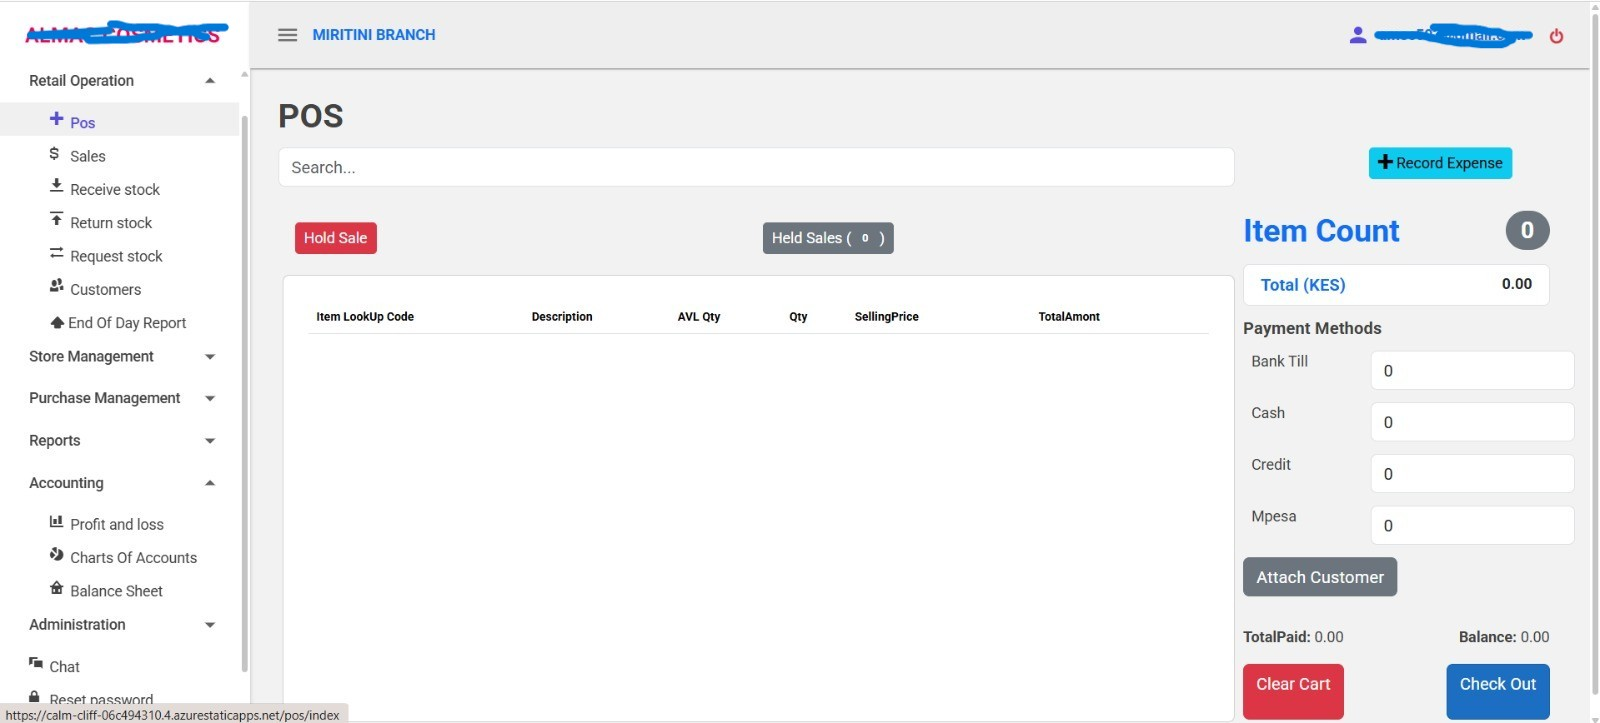
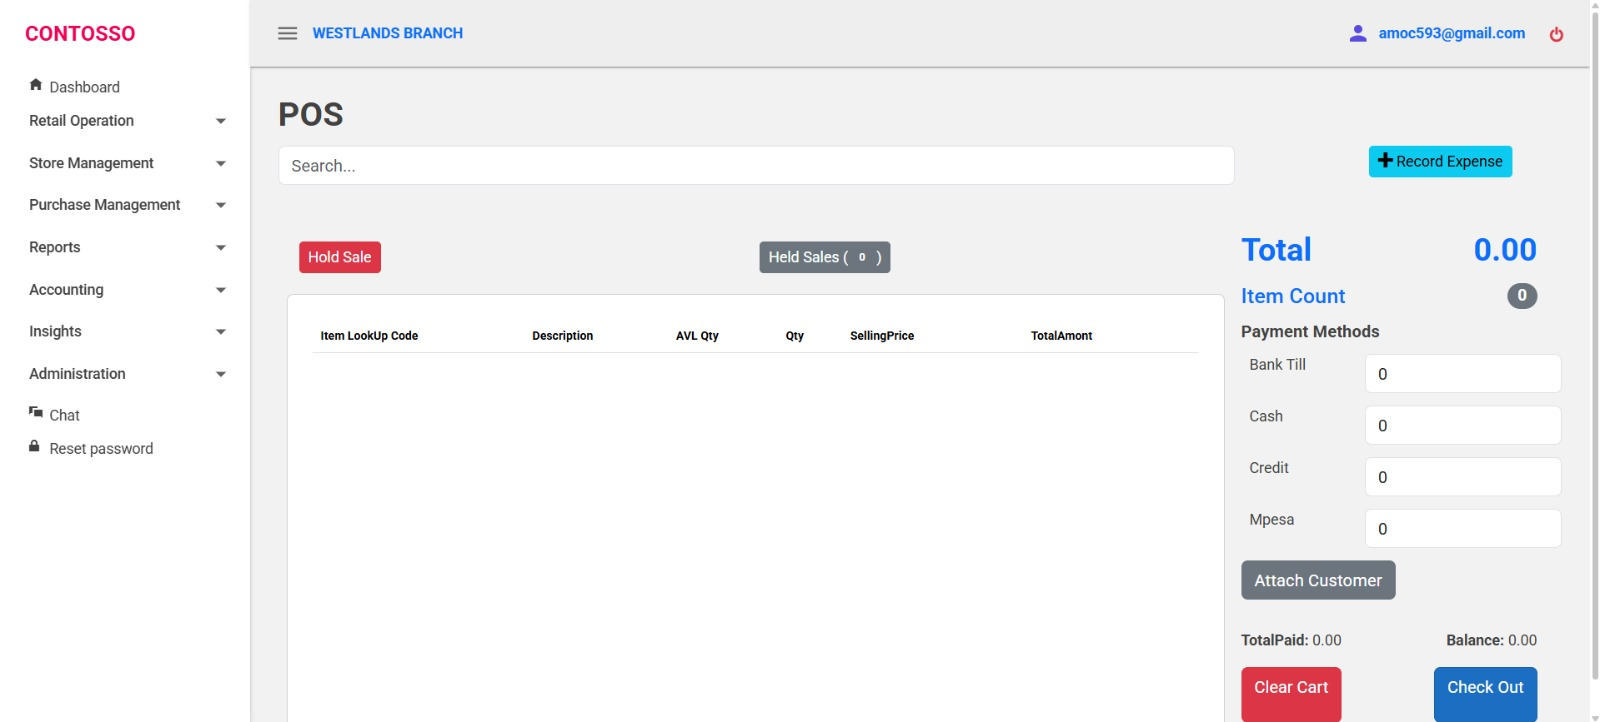
changed images and logs

diff --git a/index.html b/index.html
@@ -193,8 +193,12 @@
           <span class="tech-badge bg-primary text-white">Software</span>
           <span class="tech-badge bg-info text-white">Websites</span>
           <span class="tech-badge bg-success text-white">POS Systems</span>
-          <span class="tech-badge bg-warning text-white">Marketing</span>
-          <span class="tech-badge bg-secondary text-white">Training</span>
+          <span class="tech-badge bg-warning text-white"
+            >KRA Etims Integration</span
+          >
+          <span class="tech-badge bg-secondary text-white"
+            >Mpesa Integration</span
+          >
           <span class="tech-badge bg-dark text-white">Automation</span>
         </div>
 
@@ -324,14 +328,16 @@
           <div class="col-md-4">
             <div class="card h-100 hover-up">
               <img
-                src="accounts.jpeg"
+                src="whatsapp.jpg"
                 class="card-img-top responsive-image"
-                alt="Accounting"
+                alt="WhatsApp Ordering System"
               />
               <div class="card-body">
-                <h5 class="card-title fw-bold">Accounting Solutions</h5>
+                <h5 class="card-title fw-bold">WhatsApp Ordering System</h5>
                 <p class="card-text small text-muted">
-                  Profit and loss, balance sheet, chart of accounts.
+                  A WhatsApp-based ordering system for businesses. Customers can
+                  place orders via WhatsApp, which are then processed and
+                  managed through an integrated dashboard.
                 </p>
               </div>
             </div>
@@ -367,7 +373,7 @@
             </div>
             <div class="text-center">
               <a
-                href="https://www.youtube.com/channel/UCoLUbL1GkxaCq0xIAkTtjEw"
+                href="https://www.youtube.com/watch?v=lQXVRu84Gbg"
                 class="btn btn-dotnet fw-bold"
                 target="_blank"
                 rel="noopener noreferrer"